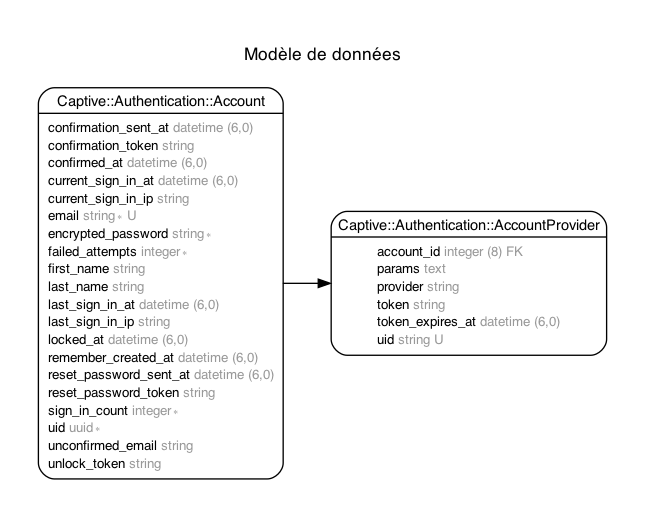
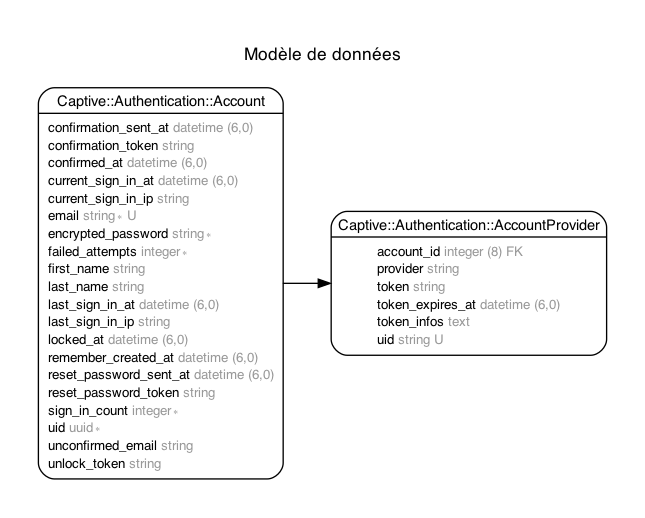
🚚 Renomme la colonne params en token_infos pour AccountProvider

Changed region(s): [[0.5891, 0.4942, 0.8682, 0.6486]]

diff --git a/captive-authentication/app/models/captive/authentication/account_provider.rb b/captive-authentication/app/models/captive/authentication/account_provider.rb
@@ -1,10 +1,17 @@
+# {AccountProvider} is model responsible for storing provider information for one Account.
+#
+# @!attribute token_infos
+#   @return [Text] Response API when we check the token with provider
+#
 module Captive::Authentication
   class AccountProvider < ApplicationRecord
     belongs_to :account
 
     validates :uid, uniqueness: { scope: :provider }
 
-    def self.find_or_create_from_omniauth(email:, provider:, uid:, token:, token_expires_at: nil)
+    def self.find_or_create_from_omniauth(
+      email:, provider:, uid:, token:, token_expires_at: nil, token_infos: nil
+    )
       account_provider =
         where(
           provider: provider,
@@ -15,6 +22,7 @@ module Captive::Authentication
         end
       account_provider.token = token
       account_provider.token_expires_at = token_expires_at
+      account_provider.token_infos = token_infos
       account_provider.save
     end
   end

diff --git a/captive-authentication/spec/dummy/app/models/captive/authentication/login/facebook_spec.rb b/captive-authentication/spec/dummy/app/models/captive/authentication/login/facebook_spec.rb
@@ -32,4 +32,28 @@ RSpec.describe Captive::Authentication::Login::Facebook do
       it { expect(subject.email).to eq "fb_id@facebook.com" }
     end
   end
+
+  describe "#token_infos" do
+    subject { described_class.new(token: "token") }
+
+    let(:reponse) do
+      {
+        id: "fb_id",
+        name: "Charles Dupont",
+        email: "charles.dupont@example.com",
+      }
+    end
+
+    before(:each) do
+      stub_request(:get, "https://graph.facebook.com/me?access_token=token&fields=email,name,id")
+        .to_return(
+          status: 200,
+          body:
+          reponse.to_json,
+          headers: { content_type: "application/json" }
+        )
+    end
+
+    it { expect(subject.token_infos.symbolize_keys).to eq reponse }
+  end
 end

diff --git a/captive-authentication/app/models/captive/authentication/login/base.rb b/captive-authentication/app/models/captive/authentication/login/base.rb
@@ -3,7 +3,7 @@
 module Captive::Authentication
   module Login
     class Base
-      attr_reader :email, :uid, :data, :token, :token_expires_at
+      attr_reader :email, :uid, :data, :token, :token_expires_at, :token_infos
 
       def find_or_create
         Captive::Authentication::AccountProvider.find_or_create_from_omniauth(
@@ -11,7 +11,8 @@ module Captive::Authentication
           provider: provider,
           uid: uid,
           token: token,
-          token_expires_at: token_expires_at
+          token_expires_at: token_expires_at,
+          token_infos: token_infos
         )
       end
 

diff --git a/captive-authentication/app/models/captive/authentication/login/facebook.rb b/captive-authentication/app/models/captive/authentication/login/facebook.rb
@@ -6,9 +6,9 @@ module Captive::Authentication
       def initialize(token:, token_expires_at: nil)
         @token = token
         @token_expires_at = token_expires_at
-        @data = recupere_information_depuis_facebook
-        @uid = data["id"]
-        @email = data["email"].presence || get_fake_email
+        @token_infos = recupere_information_depuis_facebook
+        @uid = @token_infos["id"]
+        @email = @token_infos["email"].presence || get_fake_email
       end
 
       def provider

diff --git a/captive-authentication/app/models/captive/authentication/login/google.rb b/captive-authentication/app/models/captive/authentication/login/google.rb
@@ -6,9 +6,9 @@ module Captive::Authentication
       def initialize(token:, token_expires_at: nil)
         @token = token
         @token_expires_at = token_expires_at
-        @data = recupere_information_depuis_google
-        @email = data["email"]
-        @uid = data["sub"]
+        @token_infos = recupere_information_depuis_google
+        @email = @token_infos["email"]
+        @uid = @token_infos["sub"]
       end
 
       def provider

diff --git a/captive-authentication/spec/dummy/db/schema.rb b/captive-authentication/spec/dummy/db/schema.rb
@@ -21,7 +21,7 @@ ActiveRecord::Schema[7.0].define(version: 2023_08_10_143946) do
     t.string "uid"
     t.string "token"
     t.datetime "token_expires_at"
-    t.text "params"
+    t.text "token_infos"
     t.datetime "created_at", null: false
     t.datetime "updated_at", null: false
     t.index ["account_id"], name: "index_captive_authentication_account_providers_on_account_id"

diff --git a/captive-authentication/app/models/captive/authentication/account.rb b/captive-authentication/app/models/captive/authentication/account.rb
@@ -1,3 +1,10 @@
+# {Account} is model responsible for storing account information.
+#
+# @!attribute id
+#   @return [Integer] DO NOT USE THIS ID IN EXTERNE OF THIS GEM
+#
+# @!attribute uid
+#   @return [UUID] ID of the {Patient} in UUID format.
 module Captive::Authentication
   class Account < ApplicationRecord
     devise :database_authenticatable,

diff --git a/captive-authentication/app/models/captive/authentication/login/apple.rb b/captive-authentication/app/models/captive/authentication/login/apple.rb
@@ -16,6 +16,7 @@ module Captive::Authentication
         donnees_apple = recupere_donnees_depuis_apple
         raise Apple::Erreur if donnees_apple.blank?
 
+        @token_infos = donnees_apple.parsed_response
         @data = decode_donnees(donnees_apple)
         @email = data["email"]
         @uid = data["sub"]

diff --git a/captive-authentication/db/migrate/20230810135644_create_captive_authentication_account_providers.rb b/captive-authentication/db/migrate/20230810135644_create_captive_authentication_account_providers.rb
@@ -8,7 +8,7 @@ class CreateCaptiveAuthenticationAccountProviders < ActiveRecord::Migration[7.0]
       t.string   :uid
       t.string   :token
       t.datetime :token_expires_at
-      t.text     :params
+      t.text     :token_infos
 
       t.timestamps
     end
